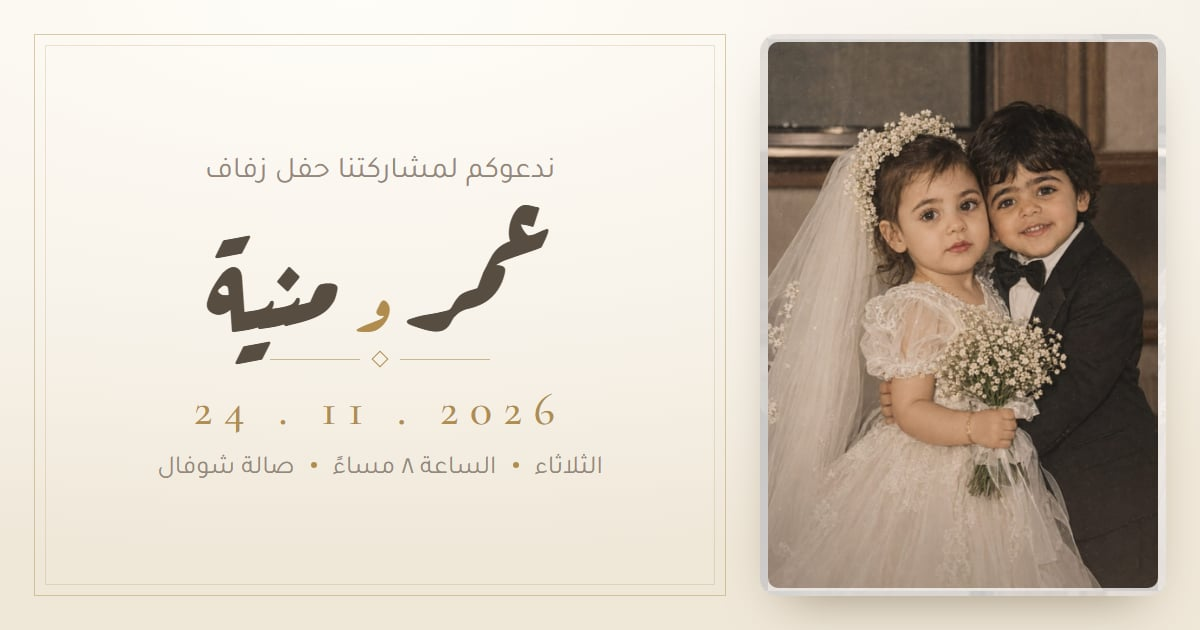
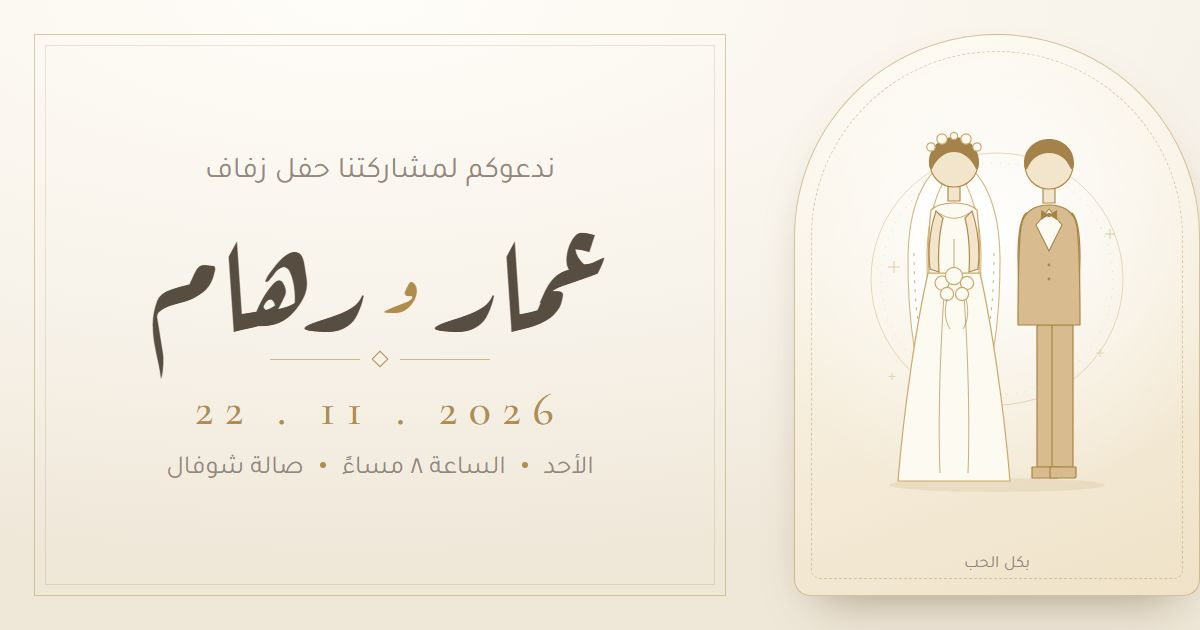
Update metadata URL and enhance OG image layout for wedding invitation

diff --git a/scripts/og.html b/scripts/og.html
@@ -29,21 +29,90 @@
         color: #584d41;
         font-family: "Tajawal", sans-serif;
       }
-      .photo {
+
+      /* ── Ornamental panel with the couple (replaces the photo) ── */
+      .art {
         width: 440px;
         height: 630px;
-        padding: 34px 34px 34px 0;
+        padding: 34px 0 34px 34px;
         flex: none;
       }
-      .photo div {
+      .art > div {
+        position: relative;
         width: 100%;
         height: 100%;
-        border-radius: 18px;
+        border-radius: 220px 220px 18px 18px;
+        border: 1px solid rgba(176, 141, 79, 0.5);
+        background:
+          radial-gradient(
+            circle at 50% 36%,
+            rgba(255, 255, 255, 0.95),
+            rgba(255, 255, 255, 0) 64%
+          ),
+          linear-gradient(160deg, #fdfaf2, #efe2c8);
+        box-shadow: 0 24px 50px -26px rgba(90, 70, 40, 0.55);
         overflow: hidden;
-        border: 8px solid rgba(255, 255, 255, 0.75);
-        box-shadow: 0 24px 50px -26px rgba(90, 70, 40, 0.6);
-        background: url("../public/childs.jpg") center / cover;
       }
+      .art > div::before {
+        content: "";
+        position: absolute;
+        inset: 16px;
+        border-radius: 205px 205px 10px 10px;
+        border: 1px dashed rgba(176, 141, 79, 0.4);
+      }
+      .couple {
+        position: absolute;
+        left: 50%;
+        top: 46px;
+        transform: translateX(-50%);
+        width: 306px;
+        height: 430px;
+        color: #b08d4f;
+      }
+      .couple .skin {
+        fill: #f3e5cb;
+        stroke: #b08d4f;
+        stroke-width: 1.2;
+      }
+      .couple .hair {
+        fill: #a5824a;
+      }
+      .couple .dress {
+        fill: #fdfaf1;
+        stroke: #c9a86a;
+        stroke-width: 1.2;
+        stroke-linejoin: round;
+      }
+      .couple .suit {
+        fill: #d8bb8f;
+        stroke: #a98445;
+        stroke-width: 1.2;
+        stroke-linejoin: round;
+      }
+      .couple .veil {
+        fill: rgba(255, 255, 255, 0.78);
+        stroke: #d3b57f;
+        stroke-width: 1.1;
+        stroke-linejoin: round;
+      }
+      .couple .detail {
+        stroke: #b08d4f;
+        stroke-width: 1;
+        fill: none;
+        opacity: 0.7;
+      }
+      .art small {
+        position: absolute;
+        left: 0;
+        right: 0;
+        bottom: 22px;
+        text-align: center;
+        font-size: 17px;
+        letter-spacing: 0.02em;
+        color: #94887a;
+      }
+
+      /* ── Text block ── */
       .text {
         position: relative;
         flex: 1;
@@ -72,6 +141,7 @@
       }
       .names {
         font-family: "Aref Ruqaa", serif;
+        font-weight: 400;
         font-size: 132px;
         line-height: 1.15;
         margin: 4px 0 2px;
@@ -81,6 +151,7 @@
         color: #b08d4f;
         font-size: 0.5em;
         margin: 0 18px;
+        vertical-align: 0.28em;
       }
       .div {
         display: flex;
@@ -124,7 +195,97 @@
     </style>
   </head>
   <body>
-    <div class="photo"><div></div></div>
+    <div class="art">
+      <div>
+        <svg class="couple" viewBox="0 0 306 430" aria-hidden>
+          <!-- halo + ground -->
+          <circle cx="153" cy="198" r="126" stroke="#c9a86a" stroke-width="0.9" fill="none" opacity=".45" />
+          <circle cx="153" cy="198" r="116" stroke="#c9a86a" stroke-width="0.9" stroke-dasharray="1 8" fill="none" opacity=".4" />
+          <ellipse cx="153" cy="404" rx="108" ry="7" fill="#b08d4f" opacity=".13" />
+
+          <!-- ══════════ BRIDE ══════════ -->
+          <g>
+            <!-- veil -->
+            <path class="veil" d="M110 78C78 88 64 130 64 180c0 46 5 90 14 122h20c-10-40-15-84-15-126 0-34 8-68 27-92Z" />
+            <path class="veil" d="M110 78c32 10 46 52 46 102 0 46-5 90-14 122h-20c10-40 15-84 15-126 0-34-8-68-27-92Z" />
+            <path class="detail" d="M70 172c0 46 5 88 12 120" stroke-dasharray="3 6" />
+            <path class="detail" d="M150 172c0 46-5 88-12 120" stroke-dasharray="3 6" />
+
+            <!-- gown -->
+            <path class="dress" d="M84 192h52c11 48 24 134 30 208H54c6-74 19-160 30-208Z" />
+            <path class="detail" d="M100 214c-4 58-6 128-4 178M120 214c4 58 6 128 4 178" />
+
+            <!-- bodice -->
+            <path class="dress" d="M110 122c-10 0-18 2-23 7-3 24-3 40-2 63h50c1-23 1-39-2-63-5-5-13-7-23-7Z" />
+            <path class="detail" d="M95 132c9 7 21 7 30 0" />
+            <path class="detail" d="M110 158v34" />
+
+            <!-- arms holding the bouquet -->
+            <path class="skin" d="M92 130c-6 18-8 40-6 58l9 3c-1-16 0-38 4-54Z" />
+            <path class="skin" d="M128 130c6 18 8 40 6 58l-9 3c1-16 0-38-4-54Z" />
+
+            <!-- bouquet -->
+            <circle class="dress" cx="98" cy="202" r="7" />
+            <circle class="dress" cx="110" cy="195" r="8.6" />
+            <circle class="dress" cx="123" cy="202" r="6.6" />
+            <circle class="dress" cx="103" cy="213" r="6.6" />
+            <circle class="dress" cx="118" cy="213" r="6.6" />
+            <path class="detail" d="M103 218c-3 12-2 22 3 30M122 218c3 12 2 22-3 30" />
+
+            <!-- neck + head + hair -->
+            <path class="skin" d="M104 102h12v18h-12Z" />
+            <circle class="skin" cx="110" cy="82" r="24" />
+            <path class="hair" d="M110 56c-14 0-25 11-25 25 0 5 1 8 3 7 5-11 13-17 22-17s17 6 22 17c2 1 3-2 3-7 0-14-11-25-25-25Z" />
+
+            <!-- flower crown -->
+            <circle class="dress" cx="87" cy="66" r="4.2" />
+            <circle class="dress" cx="98" cy="58" r="5.2" />
+            <circle class="dress" cx="110" cy="55" r="3.6" />
+            <circle class="dress" cx="122" cy="58" r="5.2" />
+            <circle class="dress" cx="133" cy="66" r="4.2" />
+          </g>
+
+          <!-- ══════════ GROOM ══════════ -->
+          <g>
+            <!-- legs + shoes -->
+            <path class="suit" d="M193 244h21v142h-21Z" />
+            <path class="suit" d="M208 244h21v142h-21Z" />
+            <path class="suit" d="M188 386h26v9a2 2 0 0 1-2 2h-24Z" />
+            <path class="suit" d="M206 386h26v9a2 2 0 0 1-2 2h-24Z" />
+
+            <!-- sleeves -->
+            <path class="suit" d="M182 132c-6 6-8 20-8 44l1 42h13l-1-44c0-20 2-34 6-40Z" />
+            <path class="suit" d="M228 132c6 6 8 20 8 44l-1 42h-13l1-44c0-20-2-34-6-40Z" />
+            <circle class="skin" cx="181" cy="222" r="5.4" />
+            <circle class="skin" cx="229" cy="222" r="5.4" />
+
+            <!-- jacket -->
+            <path class="suit" d="M205 124c-16 0-26 8-28 22-2 16-3 44-3 98h62c0-54-1-82-3-98-2-14-12-22-28-22Z" />
+
+            <!-- lapels + bow tie -->
+            <path d="M205 128l-13 16 13 26 13-26Z" fill="#fdfaf1" stroke="#a98445" stroke-width="1.1" />
+            <path class="hair" d="M205 134l-8-5v10ZM205 134l8-5v10Z" />
+            <circle cx="205" cy="134" r="2.2" fill="#a98445" />
+            <circle cx="205" cy="184" r="1.4" fill="#a98445" />
+            <circle cx="205" cy="198" r="1.4" fill="#a98445" />
+
+            <!-- neck + head + hair -->
+            <path class="skin" d="M199 104h12v18h-12Z" />
+            <circle class="skin" cx="205" cy="84" r="24" />
+            <path class="hair" d="M205 58c-14 0-25 10-25 24 0 4 1 7 3 6 5-11 12-16 22-16s17 5 22 16c2 1 3-2 3-6 0-14-11-24-25-24Z" />
+
+          </g>
+
+          <!-- sparkles -->
+          <path d="M50 180v12M44 186h12" stroke="#c9a86a" stroke-width="1" opacity=".55" />
+          <path d="M266 148v10M261 153h10" stroke="#c9a86a" stroke-width="1" opacity=".55" />
+          <path d="M256 268v8M252 272h8" stroke="#c9a86a" stroke-width="1" opacity=".4" />
+          <path d="M48 292v7M44.5 295.5h7" stroke="#c9a86a" stroke-width="1" opacity=".4" />
+        </svg>
+        <small>بكل الحب</small>
+      </div>
+    </div>
+
     <div class="text">
       <span class="frame"></span>
       <p class="kicker">ندعوكم لمشاركتنا حفل زفاف</p>

diff --git a/app/layout.tsx b/app/layout.tsx
@@ -12,7 +12,7 @@ const ogImage = {
 
 export const metadata: Metadata = {
   metadataBase: new URL(
-    process.env.NEXT_PUBLIC_SITE_URL || "https://ammar-reham.vercel.app"
+    process.env.NEXT_PUBLIC_SITE_URL || "https://2012042.github.io/ammar-reham-wedding"
   ),
   title,
   description,
